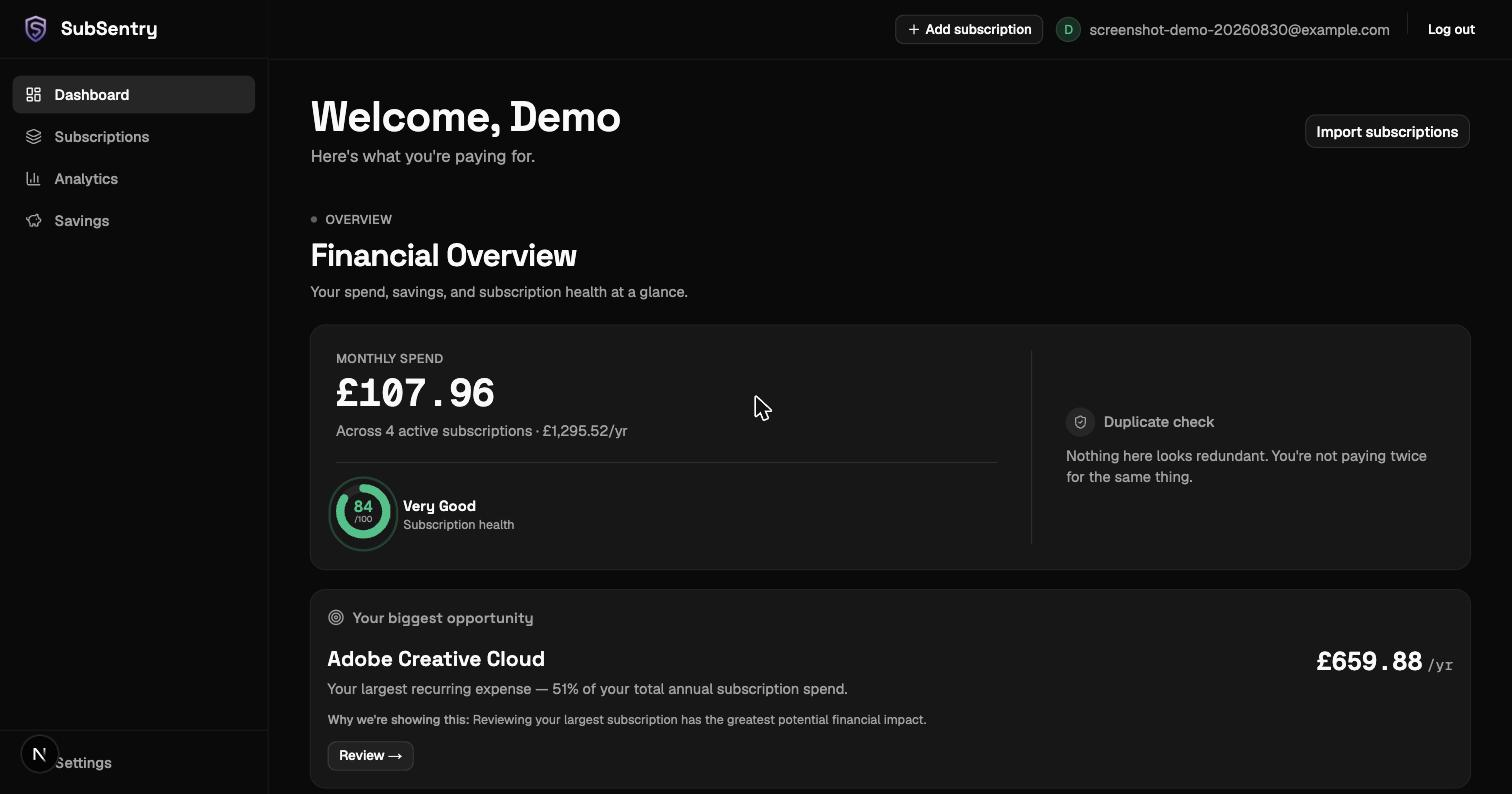
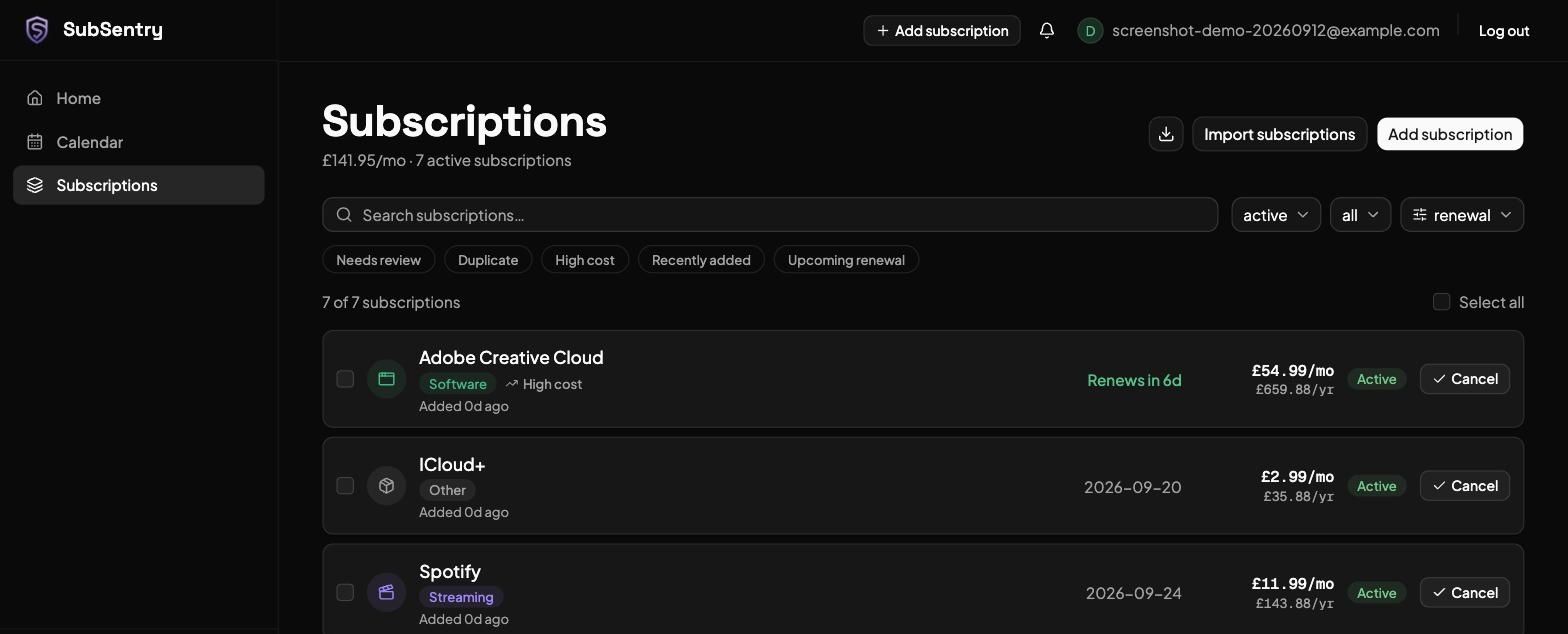
Replace dashboard screenshot with a fresh /subscriptions shot
Old dashboard-screenshot.jpg was the pre-existing SubSentry asset. Replaced
it with a new screenshot taken against the current app UI, using a
throwaway demo account seeded with 7 sample subscriptions (Netflix,
Spotify, Adobe Creative Cloud, Notion, gym, iCloud+, ChatGPT Plus) so it
reflects the live product, not stale UI. Cropped to exclude dev-only
chrome (the local dev-plan banner). Updated width/height metadata (hero
image + OG/Twitter tags) to match the new image's aspect ratio.

Claude-Session: https://claude.ai/code/session_018PjwpYgPaYfj5qYZjwL31r

diff --git a/src/components/hero.tsx b/src/components/hero.tsx
@@ -23,9 +23,9 @@ export function Hero() {
         <div className="overflow-hidden rounded-2xl border border-border bg-card shadow-2xl shadow-black/10">
           <Image
             src="/dashboard-screenshot.jpg"
-            alt="The SubSentry dashboard showing monthly spend, subscription health score, and the largest recurring expense"
-            width={1512}
-            height={794}
+            alt="The SubSentry subscriptions list, showing tracked subscriptions with cost, category, and renewal date, and a high-cost flag on the largest one"
+            width={1568}
+            height={634}
             priority
             className="w-full"
           />

diff --git a/src/app/layout.tsx b/src/app/layout.tsx
@@ -38,7 +38,7 @@ export const metadata: Metadata = {
     siteName: "SubSentry",
     title: TITLE,
     description: DESCRIPTION,
-    images: [{ url: "/dashboard-screenshot.jpg", width: 1512, height: 794, alt: "The SubSentry dashboard" }],
+    images: [{ url: "/dashboard-screenshot.jpg", width: 1568, height: 634, alt: "The SubSentry subscriptions list" }],
   },
   twitter: {
     card: "summary_large_image",

diff --git a/README.md b/README.md
@@ -56,7 +56,9 @@ or browse it in the Upstash console's Data Browser.
 
 ## Brand assets
 
-- `public/logo-mark.png` and `public/dashboard-screenshot.jpg` are copied from the main SubSentry repo
-  (`SubSentry/public/logo-mark.png`, `SubSentry/public/dashboard-screenshot-v2.jpg`) so this stays a real product
-  screenshot, not a mockup.
+- `public/logo-mark.png` is copied from the main SubSentry repo (`SubSentry/public/logo-mark.png`).
+- `public/dashboard-screenshot.jpg` is a real screenshot of the live app's `/subscriptions` page (a throwaway demo
+  account, seeded with sample subscriptions for the shot — not a mockup). Retake it the same way if it goes stale:
+  sign up a fresh demo account in the main app, add a few subscriptions, screenshot the page, crop out any dev-only
+  UI (e.g. the local dev-plan banner), and drop it in here at the same filename.
 - `src/app/icon.png` / `apple-icon.png` are the same logo mark, used by Next.js's automatic favicon convention.
